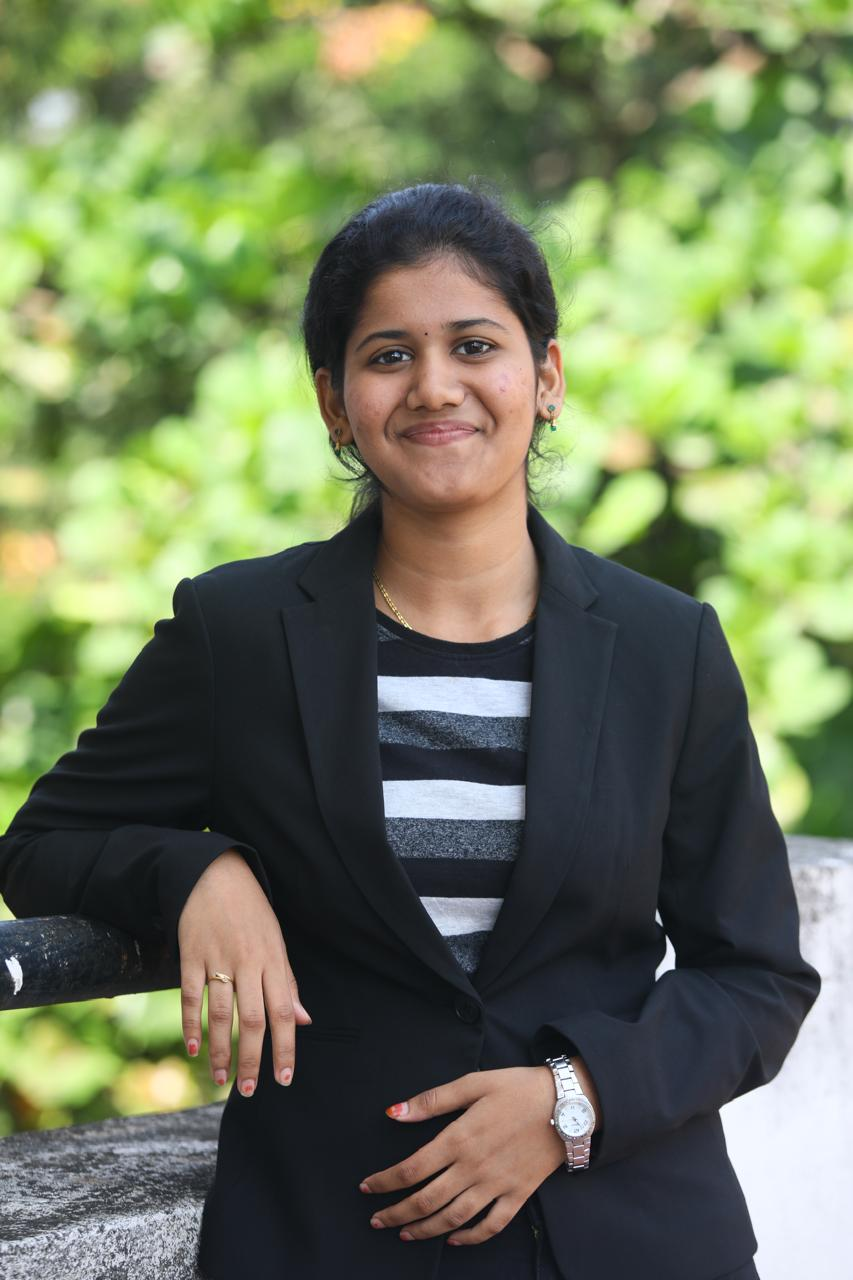
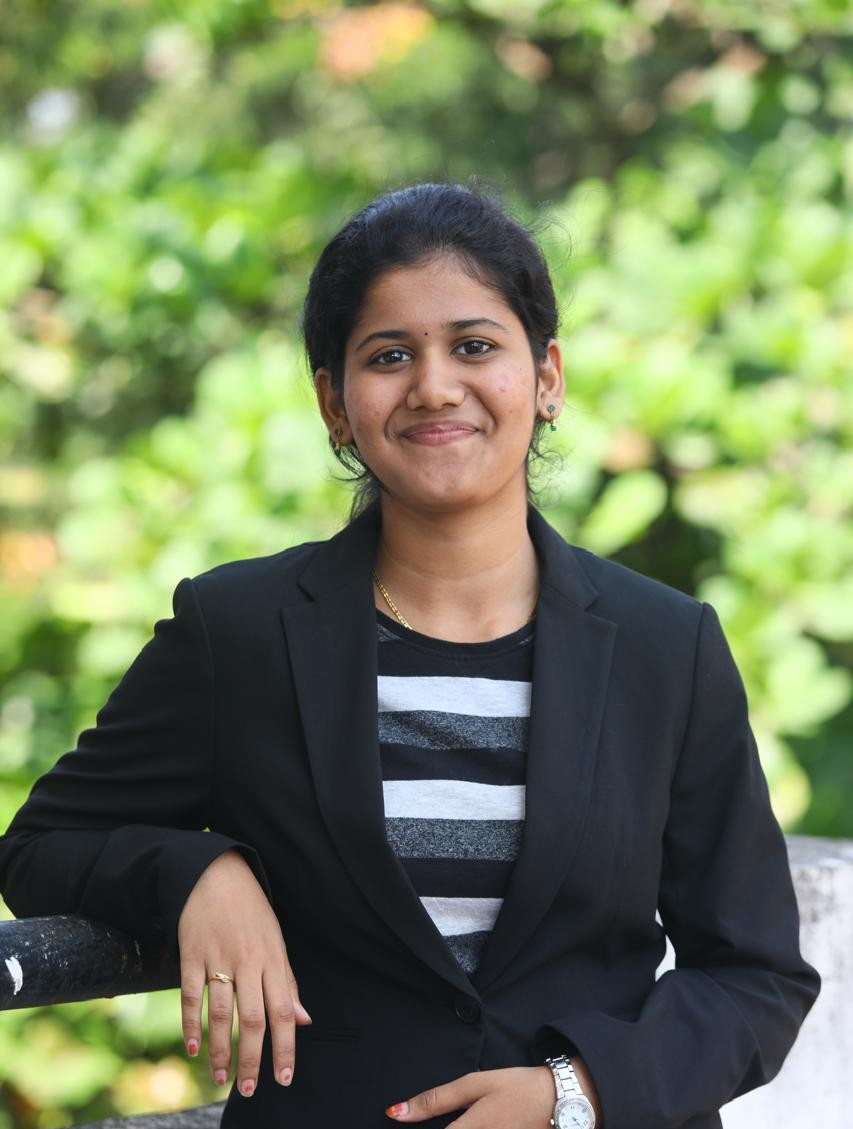
final alignment

diff --git a/app/core/page.tsx b/app/core/page.tsx
@@ -244,7 +244,7 @@ export default function CorePage() {
             {secretariatMembers.map((member, index) => (
               <Card
                 key={index}
-                className="group hover:shadow-2xl hover:shadow-accent/20 transition-all duration-700 hover:scale-105 bg-gradient-to-br from-card/90 via-card/80 to-card/70 backdrop-blur-sm border-border/30 overflow-hidden"
+                className="group hover:shadow-2xl hover:shadow-accent/20 transition-all duration-700 hover:scale-105 bg-gradient-to-br from-card/90 via-card/80 to-card/70 backdrop-blur-sm border-border/30 overflow-hidden h-full flex flex-col"
                 style={{
                   animationDelay: `${index * 100}ms`,
                 }}
@@ -255,24 +255,26 @@ export default function CorePage() {
                 </div>
 
                 <CardHeader className="relative z-10 pb-4">
-                  <div className="bg-gradient-to-br from-accent/20 via-background/50 to-accent/10 rounded-xl overflow-hidden mb-4 group-hover:scale-105 transition-transform duration-500 flex items-center justify-center">
+                  <div className="bg-gradient-to-br from-accent/20 via-background/50 to-accent/10 rounded-xl overflow-hidden mb-6 group-hover:scale-105 transition-transform duration-500 flex items-center justify-center h-80 w-full">
                     <img
                       src={member.image || "/placeholder.svg"}
                       alt={`${member.name} - ${member.role}`}
-                      className="w-auto h-auto max-w-full max-h-full group-hover:scale-110 transition-transform duration-700"
+                      className="w-full h-full object-cover object-center group-hover:scale-110 transition-transform duration-700"
                       style={{ display: 'block' }}
                     />
                     <div className="absolute inset-0 bg-gradient-to-t from-background/40 via-transparent to-transparent"></div>
                   </div>
-                  <CardTitle className="font-playfair text-xl text-accent group-hover:text-accent/90 transition-colors text-center">
-                    {member.name}
-                  </CardTitle>
-                  <CardDescription className="text-center font-medium text-muted-foreground group-hover:text-foreground/80 transition-colors">
-                    {member.role}
-                  </CardDescription>
+                  <div className="text-center space-y-2">
+                    <CardTitle className="font-playfair text-xl text-accent group-hover:text-accent/90 transition-colors">
+                      {member.name}
+                    </CardTitle>
+                    <CardDescription className="font-medium text-muted-foreground group-hover:text-foreground/80 transition-colors">
+                      {member.role}
+                    </CardDescription>
+                  </div>
                 </CardHeader>
 
-                <CardContent className="relative z-10 text-center">
+                <CardContent className="relative z-10 text-center mt-auto">
                   <div className="flex justify-center space-x-2 mb-4">
                     {[...Array(5)].map((_, i) => (
                       <div
